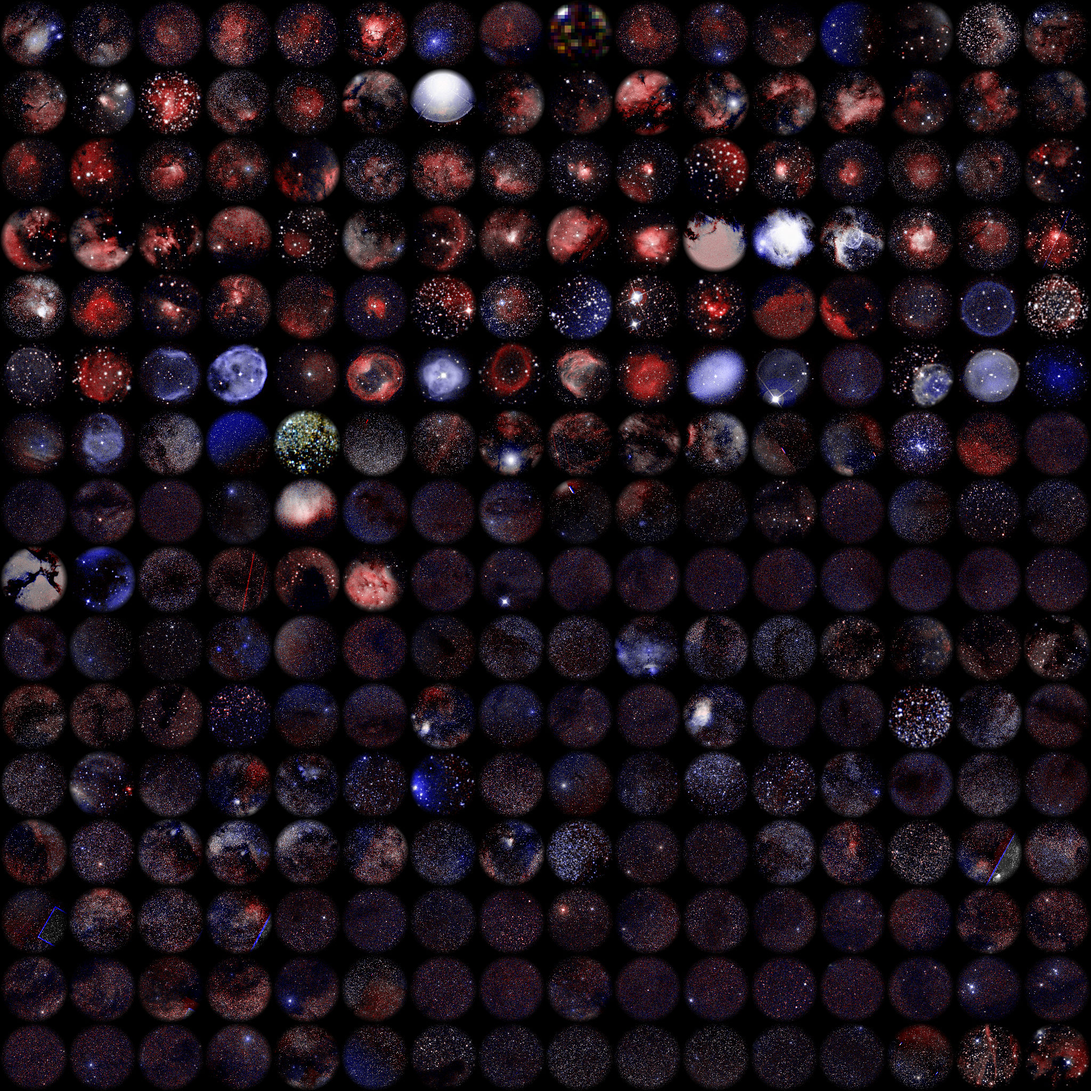
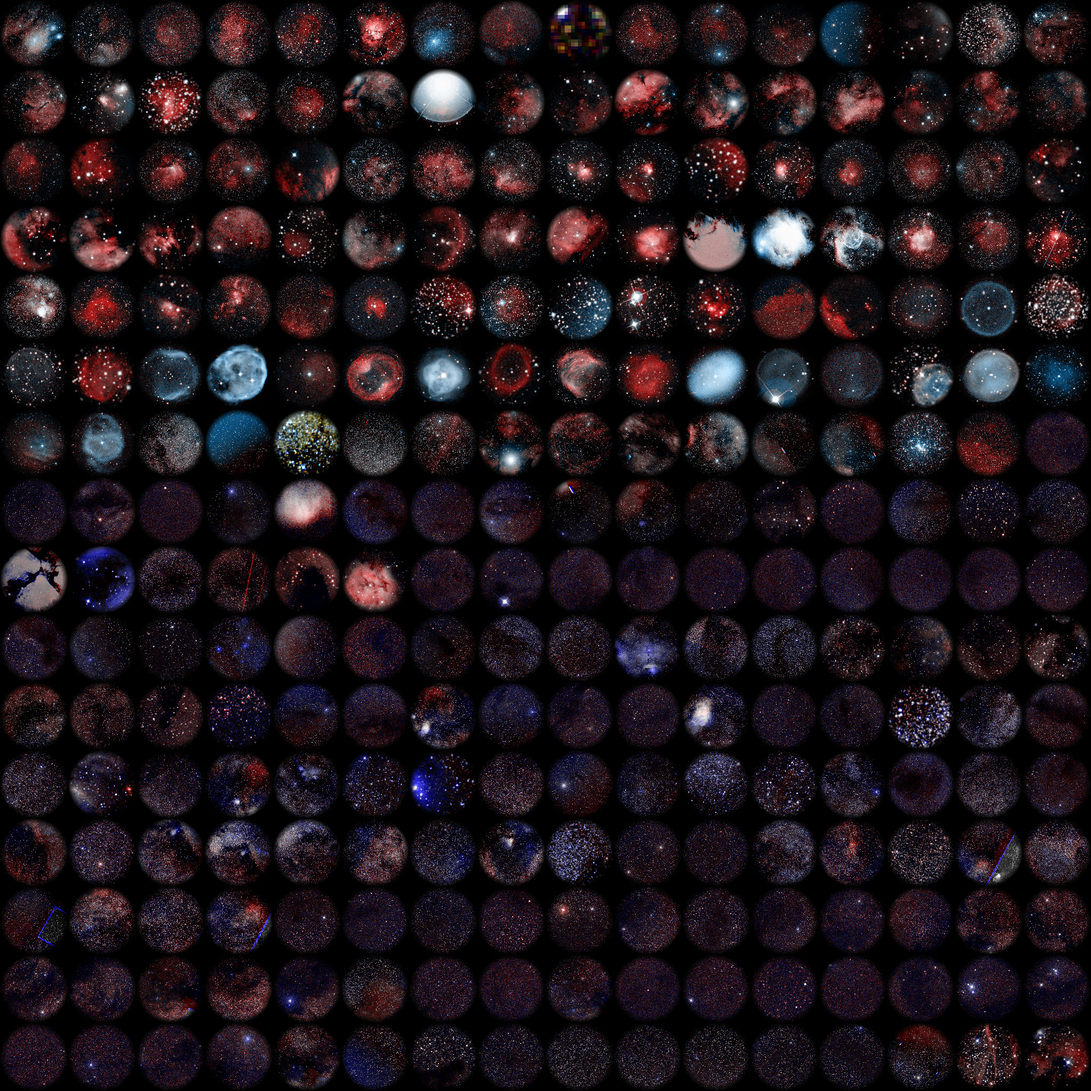
Nebula pictures: teal oxygen glow and a sharp picture of each named nebula
Rebuilt with scripts/build-nebula-images.mjs: in emission nebulae the blue
plate's excess is drawn teal, the colour of [O III] at 501 nm (the planetary
nebulae, blue-dominant on the plates, now look as they do in photographs;
reflection nebulae stay blue), and each of the 55 named nebulae has its own
512-pixel picture (public/data/nebula-hd, 4.7 MB, loaded one at a time on
desktops when its volume appears). Planetary nebulae under 1.5′ in radius,
which burn the plates out to white discs, use their modelled shell instead:
the Ring shows its teal interior, red rim and white dwarf.

Claude-Session: https://claude.ai/code/session_01EMqHA62w9d23Wweb6feuxb

diff --git a/tests/nebula-images.test.ts b/tests/nebula-images.test.ts
@@ -85,4 +85,40 @@ describe('nebula images (DSS via SkyView)', () => {
     const hii = atlas.images.filter((i) => i.kind === 'hii').map((i) => tileStats(i.page, i.tile).redBlue);
     expect(hii.reduce((a, b) => a + b, 0) / hii.length).toBeGreaterThan(1.1);
   });
+
+  it('draws the [O III] glow of planetary nebulae teal, and keeps reflection nebulae blue', () => {
+    /** Green over blue in a tile's gas (pixels lit on either plate, not saturated). */
+    const greenBlue = (name: string) => {
+      const im = atlas.images.find((i) => i.name === name)!;
+      const p = atlas.pages[im.page];
+      const img = pages[im.page];
+      const [u, v] = tileRect(p, im.tile);
+      const x0 = Math.round(u * img.width), y0 = Math.round((1 - v) * img.height) - p.tile;
+      let g = 0, b = 0;
+      for (let y = y0 + p.tile / 4; y < y0 + (3 * p.tile) / 4; y++) {
+        for (let x = x0 + p.tile / 4; x < x0 + (3 * p.tile) / 4; x++) {
+          const k = (y * img.width + x) * 4;
+          if (Math.max(img.data[k], img.data[k + 2]) < 40 || Math.min(img.data[k], img.data[k + 2]) > 235) continue;
+          g += img.data[k + 1];
+          b += img.data[k + 2];
+        }
+      }
+      return g / Math.max(1, b);
+    };
+    // Oxygen-bright planetary nebulae: green well above the red-blue minimum alone would give.
+    for (const name of ['Saturn Nebula', 'Ghost of Jupiter', 'Blue Snowball Nebula', "Cat's Eye Nebula"]) expect(greenBlue(name), name).toBeGreaterThan(0.6);
+    // Reflection nebulae (scattered starlight, no oxygen lines) stay blue: green is the red plate's level.
+    for (const name of ['Iris Nebula', 'Blue Horsehead Nebula']) expect(greenBlue(name), name).toBeLessThan(0.75);
+  });
+
+  it('has a sharp 512-pixel picture of every named nebula, for the volume up close', () => {
+    const named = atlas.images.filter((i) => i.page === 0);
+    for (const im of named) {
+      expect(im.hd, im.name).toMatch(/^nebula-hd\/[a-z0-9-]+\.jpg$/);
+      const img = jpeg.decode(readFileSync(`public/data/${im.hd}`), { useTArray: true });
+      expect(img.width, im.name).toBe(512);
+      expect(img.height, im.name).toBe(512);
+    }
+    expect(new Set(named.map((i) => i.hd)).size).toBe(named.length);
+  });
 });

diff --git a/src/app/galaxyMap.ts b/src/app/galaxyMap.ts
@@ -281,7 +281,9 @@ export class GalaxyMapUI {
         // four times sharper than its atlas tile, so far fewer are too small.
         const hdUrl = image.hd && !LOW_POWER ? nebulaHdUrl(image.hd) : undefined;
         const pixelsAcross = ((hdUrl ? 512 : page.tile) * size * 1.3) / fieldSize;
-        const tiny = pixelsAcross < 80;
+        // A planetary nebula under 1.5′ in radius (the Ring, the Cat's Eye) burns out the plate to
+        // a white disc: its modelled shell ([O III] inside, an Hα rim, the white dwarf) is truer.
+        const tiny = pixelsAcross < 80 || (n.kind === 'pn' && n.radiusDeg < 0.025);
         volumes.push({
           center: pos,
           radius: tiny ? size * 0.6 : photoSize / 2,

diff --git a/docs/HANDOFF.md b/docs/HANDOFF.md
@@ -231,7 +231,13 @@ red blob with streaks, the Crab a white blob, the Veil faint, the Horsehead invi
   in the HD picture (GalaxyView loads it once per URL when the volume is built; `hdPhotos` false
   on phones); `backlitOnly` dark clouds use their photo only when `centralGlow` ≥ 0.1 (the
   Horsehead); `centralStar` for every PN. galaxyMap: "tiny" now means under 80 pixels across in
-  the best picture available (HD on desktop), so most named PNs are photographed volumes.
+  the best picture available (HD on desktop), or a PN under 1.5′ in radius (the Ring and the
+  Cat's Eye saturate the plates to white discs; their modelled shell is truer). The Helix and the
+  Dumbbell are photographed volumes.
+- [x] GalaxyView.flyToPoint arrives at a photographed nebula from the Sun's side (the volume
+  reproduces the photograph from Earth), and updateVolumes fades the procedural star layer
+  (`STAR_OPACITY` × (1 − 0.85 · focus)) while a volume fills the view: near the plane those
+  minimum-size stand-ins piled into a white wall in front of the Eagle and the Lagoon.
 - [x] search.ts: fly to max(0.003, 3 × size) units (was max(0.05, 4 × size)).
 - Tests: tests/nebulae.test.ts (filled distances), tests/nebula-raymarch.test.ts (backlit rule).
 
